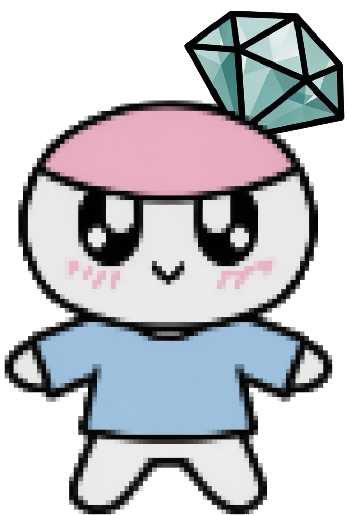
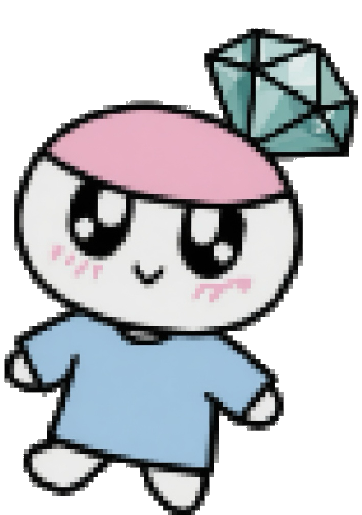
fix: Bongbongee walk uses subtle lean draft A
Replace walk1/walk2 Imagine plates with draft A (gentle tilt into the
walk direction, alternating feet). Rebuild pet 32×32 and NPC plate
frames via the sprite pipeline. Bump to 1.12.1.

diff --git a/src/appVersion.ts b/src/appVersion.ts
@@ -5,4 +5,4 @@
  * feature ships — patch for fixes, minor for features, major for breaking
  * changes. Keep both files in sync.
  */
-export const APP_VERSION = '1.12.0';
+export const APP_VERSION = '1.12.1';
